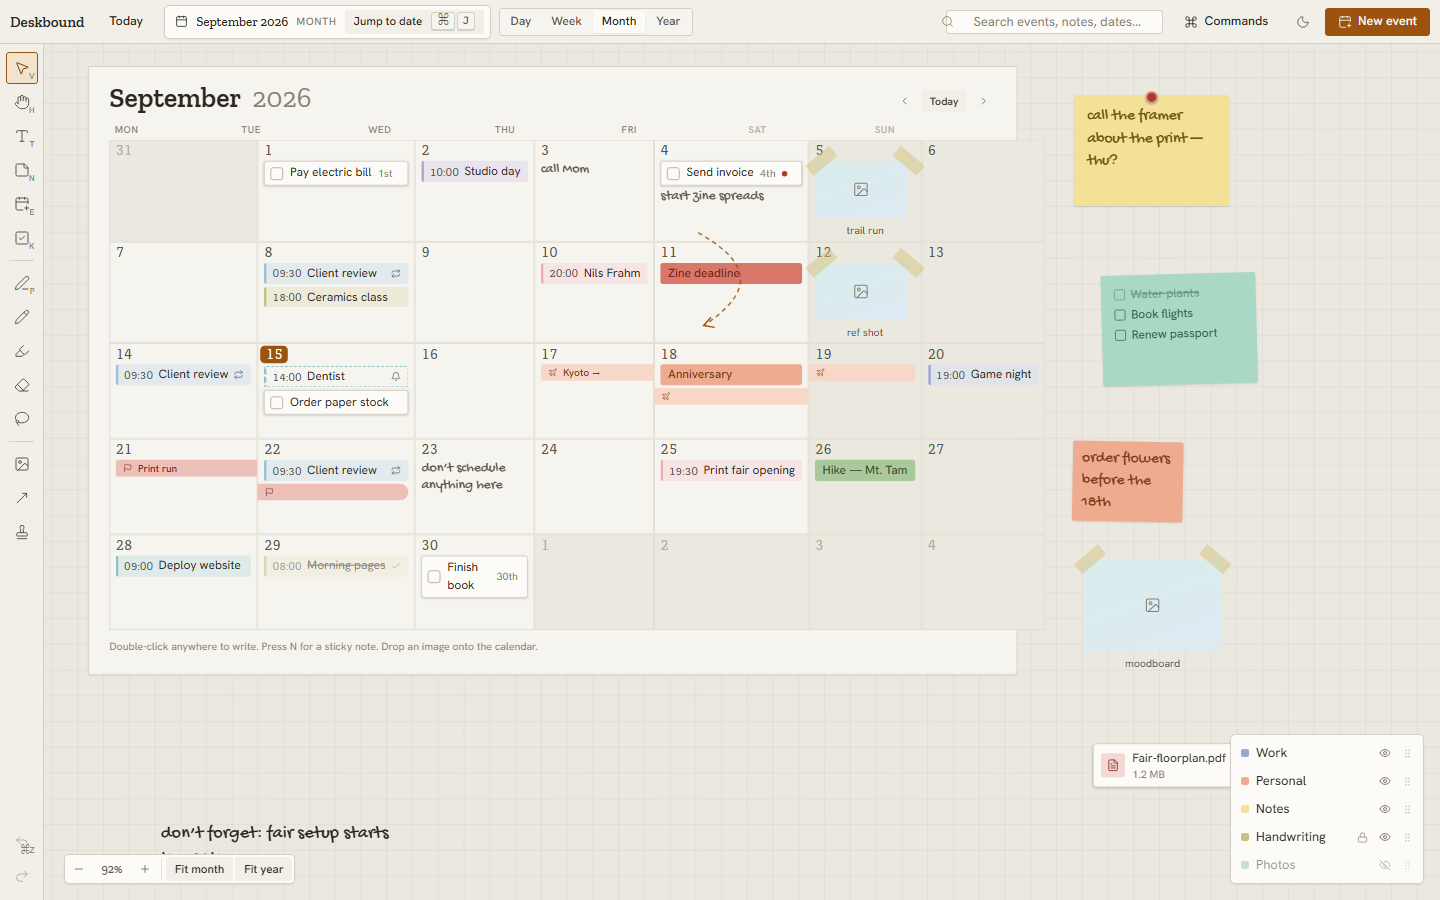
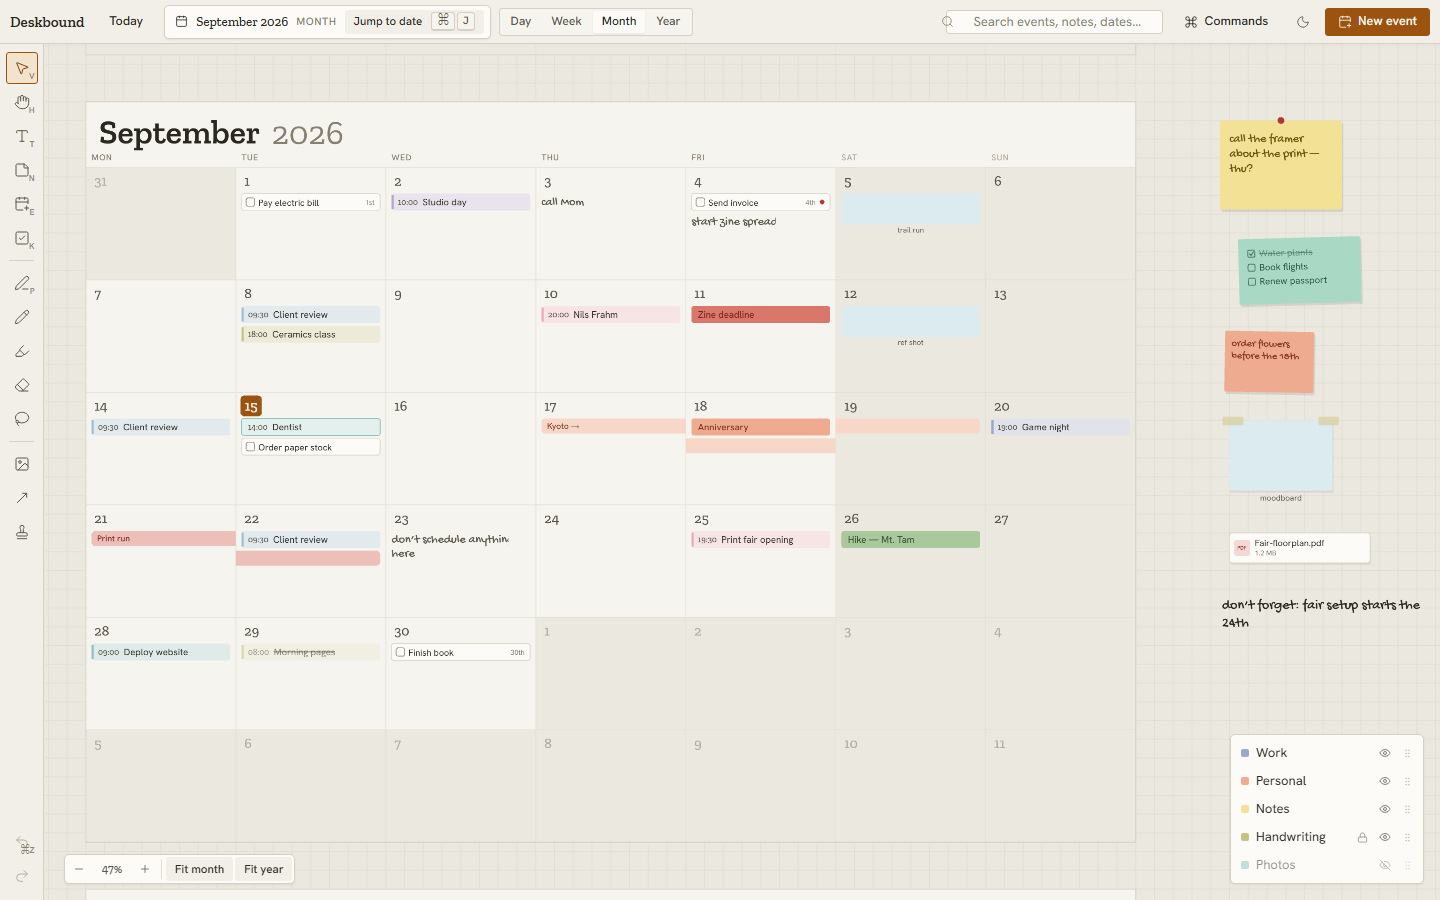
docs(repo): record milestone 2 outcome in README, roadmap, and design doc

diff --git a/README.md b/README.md
@@ -8,16 +8,37 @@ No account. No cloud. Your desk lives on your machine.
 
 ## ✨ What works today
 
-The first milestone implements the [Deskbound-designed](docs/design/) application screen end to end:
+The workspace is **one continuous, GPU-rendered world** (PixiJS 8): every month of every
+year has a fixed place on the desk, zooming changes the level of detail, and navigating
+time is just panning. The [Deskbound design](docs/design/) supplies every color, type
+role, and control.
 
-- **Spatial workspace** — pan (space-drag, wheel, or the Pan tool) and zoom (Ctrl/⌘ + wheel around the cursor, or the zoom widget) across a paper desk.
-- **Four zoom tiers** — year planner, month sheet, week sheet, and day page, switchable from the toolbar.
-- **A lived-in month** — events (timed, all-day, tentative, recurring, completed), tasks, multi-day ranges, handwriting, and taped photos on a September 2026 sample desk.
-- **Desk objects** — draggable sticky notes (with checklists), images, file attachments, and freeform text; double-click empty paper to write.
-- **Universal undo/redo** — every mutation is a command; a drag commits exactly one history entry (⌘Z / ⇧⌘Z).
-- **Selection & inspector** — click an object for its contextual inspector (paper color, geometry, event schedule, image caption).
-- **Search & command palette** — search events, notes, handwriting, and files; ⌘K opens the palette; jumps flash the target day.
-- **Light & dark themes** — warm paper by day, charcoal drafting paper by night.
+- **Infinite spatial canvas** — pan (space-drag, wheel, or the Pan tool) and zoom
+  (Ctrl/⌘ + wheel around the cursor) from a whole year down to a single day; the
+  Day/Week/Month/Year control applies zoom presets onto the same world.
+- **Progressive detail** — year tier shows month structure and density dots; month tier
+  shows numerals, event chips, tasks, ranges, handwriting, and photos; week/day tiers
+  add metadata lines.
+- **Real month navigation** — any month of any year, with the date navigator following
+  the viewport focus; Today, search, and palette jumps center and flash the target day.
+- **A lived-in month** — events (timed, all-day, tentative, recurring, completed),
+  tasks, multi-day ranges, handwriting, and taped photos on a September 2026 sample desk.
+- **Desk objects** — sticky notes (with checklists), images, file attachments, and
+  freeform text: drag to move, southeast handle to resize, arrow keys to nudge,
+  Delete to remove, double-click to edit (DOM editor over the canvas), double-click
+  empty paper to write.
+- **Universal undo/redo** — every mutation is a command; a drag or resize commits
+  exactly one history entry (⌘Z / ⇧⌘Z).
+- **Selection & inspector** — hit-testing runs through a spatial index; the contextual
+  inspector edits paper color, geometry, event schedule, and image captions.
+- **Search & command palette** — search events, notes, handwriting, and files; ⌘K opens
+  the palette.
+- **Light & dark themes** — the PixiJS scene reads its palette from the Deskbound CSS
+  tokens, so both themes stay single-sourced.
+
+| Year tier (12%) | Dark theme |
+| --- | --- |
+| ![Year view](docs/assets/year-view.png) | ![Dark month view](docs/assets/month-view-dark.png) |
 
 ## 🧭 Architecture
 
@@ -26,7 +47,7 @@ The full decision record lives in [`docs/Infinite-Desk-Calendar-Architecture-Dec
 | Layer | Choice |
 | --- | --- |
 | Application UI | Angular 22 (signals, zoneless) |
-| Spatial renderer | PixiJS 8 (upcoming — see [ROADMAP](ROADMAP.md); the current milestone renders the workspace with DOM) |
+| Spatial renderer | PixiJS 8 (`packages/canvas` — layered scene, month culling, spatial index; design record in [docs/design-canvas-renderer.md](docs/design-canvas-renderer.md)) |
 | Desktop shell | Tauri 2 (upcoming) |
 | Local data | SQLite + filesystem attachments (upcoming) |
 | Design system | Deskbound (`packages/deskbound`) |
@@ -40,7 +61,7 @@ yearleaf/
 │   └── desktop/            Angular application shell
 ├── packages/
 │   ├── domain/             Entities, calendar math, command/undo architecture
-│   ├── canvas/             Date↔world mapping, viewport math, zoom tiers
+│   ├── canvas/             Date↔world layout, viewport math, spatial index, PixiJS scene
 │   ├── deskbound/          Design system: CSS tokens + Angular components
 │   └── persistence/        Storage contracts + in-memory adapter
 └── docs/
@@ -61,11 +82,13 @@ pnpm build          # production build
 pnpm test           # package tests (Vitest) + app tests
 ```
 
-Try it: press `N` for a sticky note, drag it somewhere better, then ⌘Z twice.
+Try it: press `N` for a sticky note, drag it somewhere better, double-click it to
+rewrite it, then Ctrl+Z your way back.
 
 ## 🗺 Where this is going
 
-See [ROADMAP.md](ROADMAP.md) — next up are the PixiJS workspace renderer, the Tauri shell, and SQLite persistence.
+See [ROADMAP.md](ROADMAP.md) — next up are the Tauri shell and SQLite persistence
+(milestone 3), then editing depth: recurrence, handwriting, and attachment import.
 
 ## Contributing
 

diff --git a/ROADMAP.md b/ROADMAP.md
@@ -23,17 +23,23 @@ application — no accounts, no cloud, no sync.
 - [x] Command architecture and universal undo/redo (add, move, delete, payload edit)
 - [x] Light and dark themes; reduced-motion tokens
 
-## Milestone 2 — PixiJS workspace (delivery steps 2–4)
+## Milestone 2 — PixiJS workspace ✅ (delivery steps 2–4)
 
-The current DOM workspace is a faithful stand-in; this milestone moves
-spatial rendering to the canvas package per the architecture boundaries.
+The workspace is now one continuous world rendered by PixiJS 8
+(design record: [docs/design-canvas-renderer.md](docs/design-canvas-renderer.md)):
+months live in fixed world positions (3×4 year blocks), the detail tier
+derives from the zoom level, and month navigation is panning.
 
-- [ ] PixiJS 8 scene with explicit layers (Calendar, Event, Note, Drawing, Attachment, Connector, Interaction)
-- [ ] Calendar grid rendered from the shared date↔world mapping with progressive detail per zoom tier
-- [ ] Viewport culling and a spatial index for hit testing
-- [ ] Selection, movement, resizing, and keyboard navigation against the Pixi scene
-- [ ] DOM overlay editing for text objects (canvas-positioned `textarea`)
-- [ ] Real month navigation (any month, not the pinned September 2026 sample)
+- [x] PixiJS 8 scene with explicit layers (Calendar, Event, Note, Drawing, Attachment, Connector, Interaction)
+- [x] Calendar grid rendered from the shared date↔world mapping with progressive detail per zoom tier
+- [x] Viewport culling (visible-month arithmetic) and a spatial index for hit testing
+- [x] Selection, movement, resizing (SE handle), delete, and arrow-key nudging against the Pixi scene
+- [x] DOM overlay editing for text objects **and sticky notes** (canvas-positioned editor)
+- [x] Real month navigation across all of time (tier presets, focused-month labels, date jumps)
+
+Deferred out of this milestone (tracked in the design record): drawing and
+connector content, bespoke week/day hour-ruler layouts, rotation handle,
+multi-select, and sharper text rasterization at high zoom.
 
 ## Milestone 3 — Desktop shell and persistence (delivery steps 1 & 5)
 

diff --git a/docs/design-canvas-renderer.md b/docs/design-canvas-renderer.md
@@ -83,8 +83,8 @@ Decorative elements dropped from the mock: the annotation arrow and the sheet hi
 CanvasScene (stage)
 ├── GridLayer          screen-space paper grid (not zoom-scaled)
 └── WorldRoot          position = pan, scale = zoom
-    ├── CalendarLayer  month views, culled by visible month range (arithmetic)
-    ├── EventLayer     event/task/range chips at cell-derived world rects
+    ├── CalendarLayer  month views (incl. their event/task/range chips), culled by visible month range
+    ├── EventLayer     reserved for freely spanning event objects (empty this milestone)
     ├── NoteLayer      stickies and text objects
     ├── DrawingLayer   (empty this milestone — handwriting lands in M4)
     ├── AttachmentLayer images and file chips
